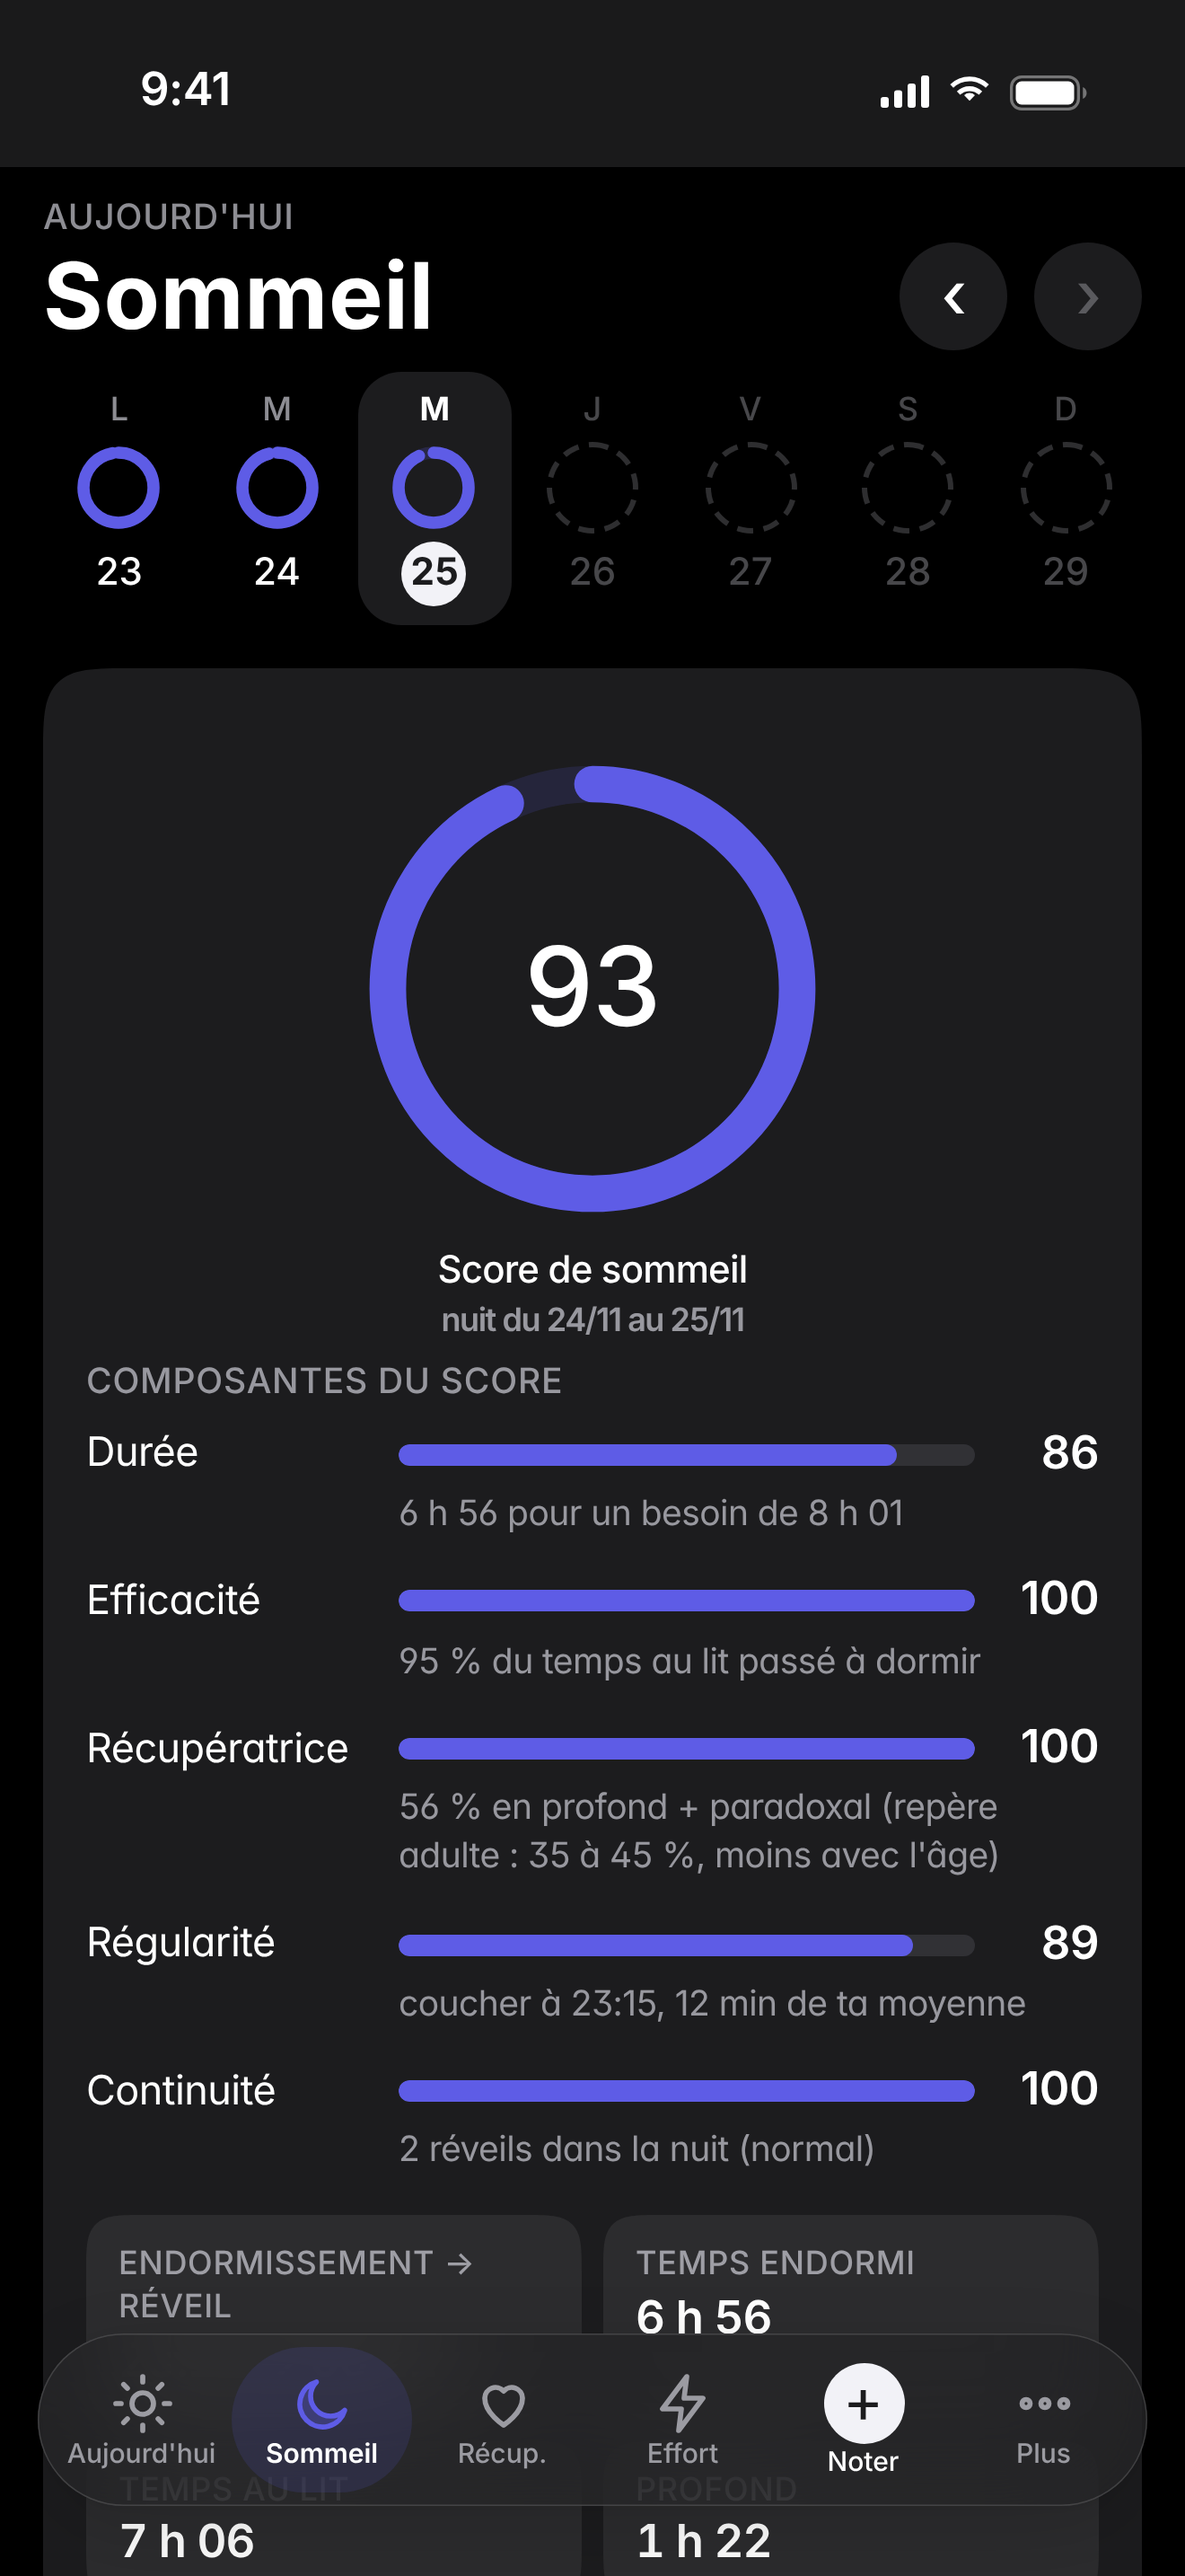
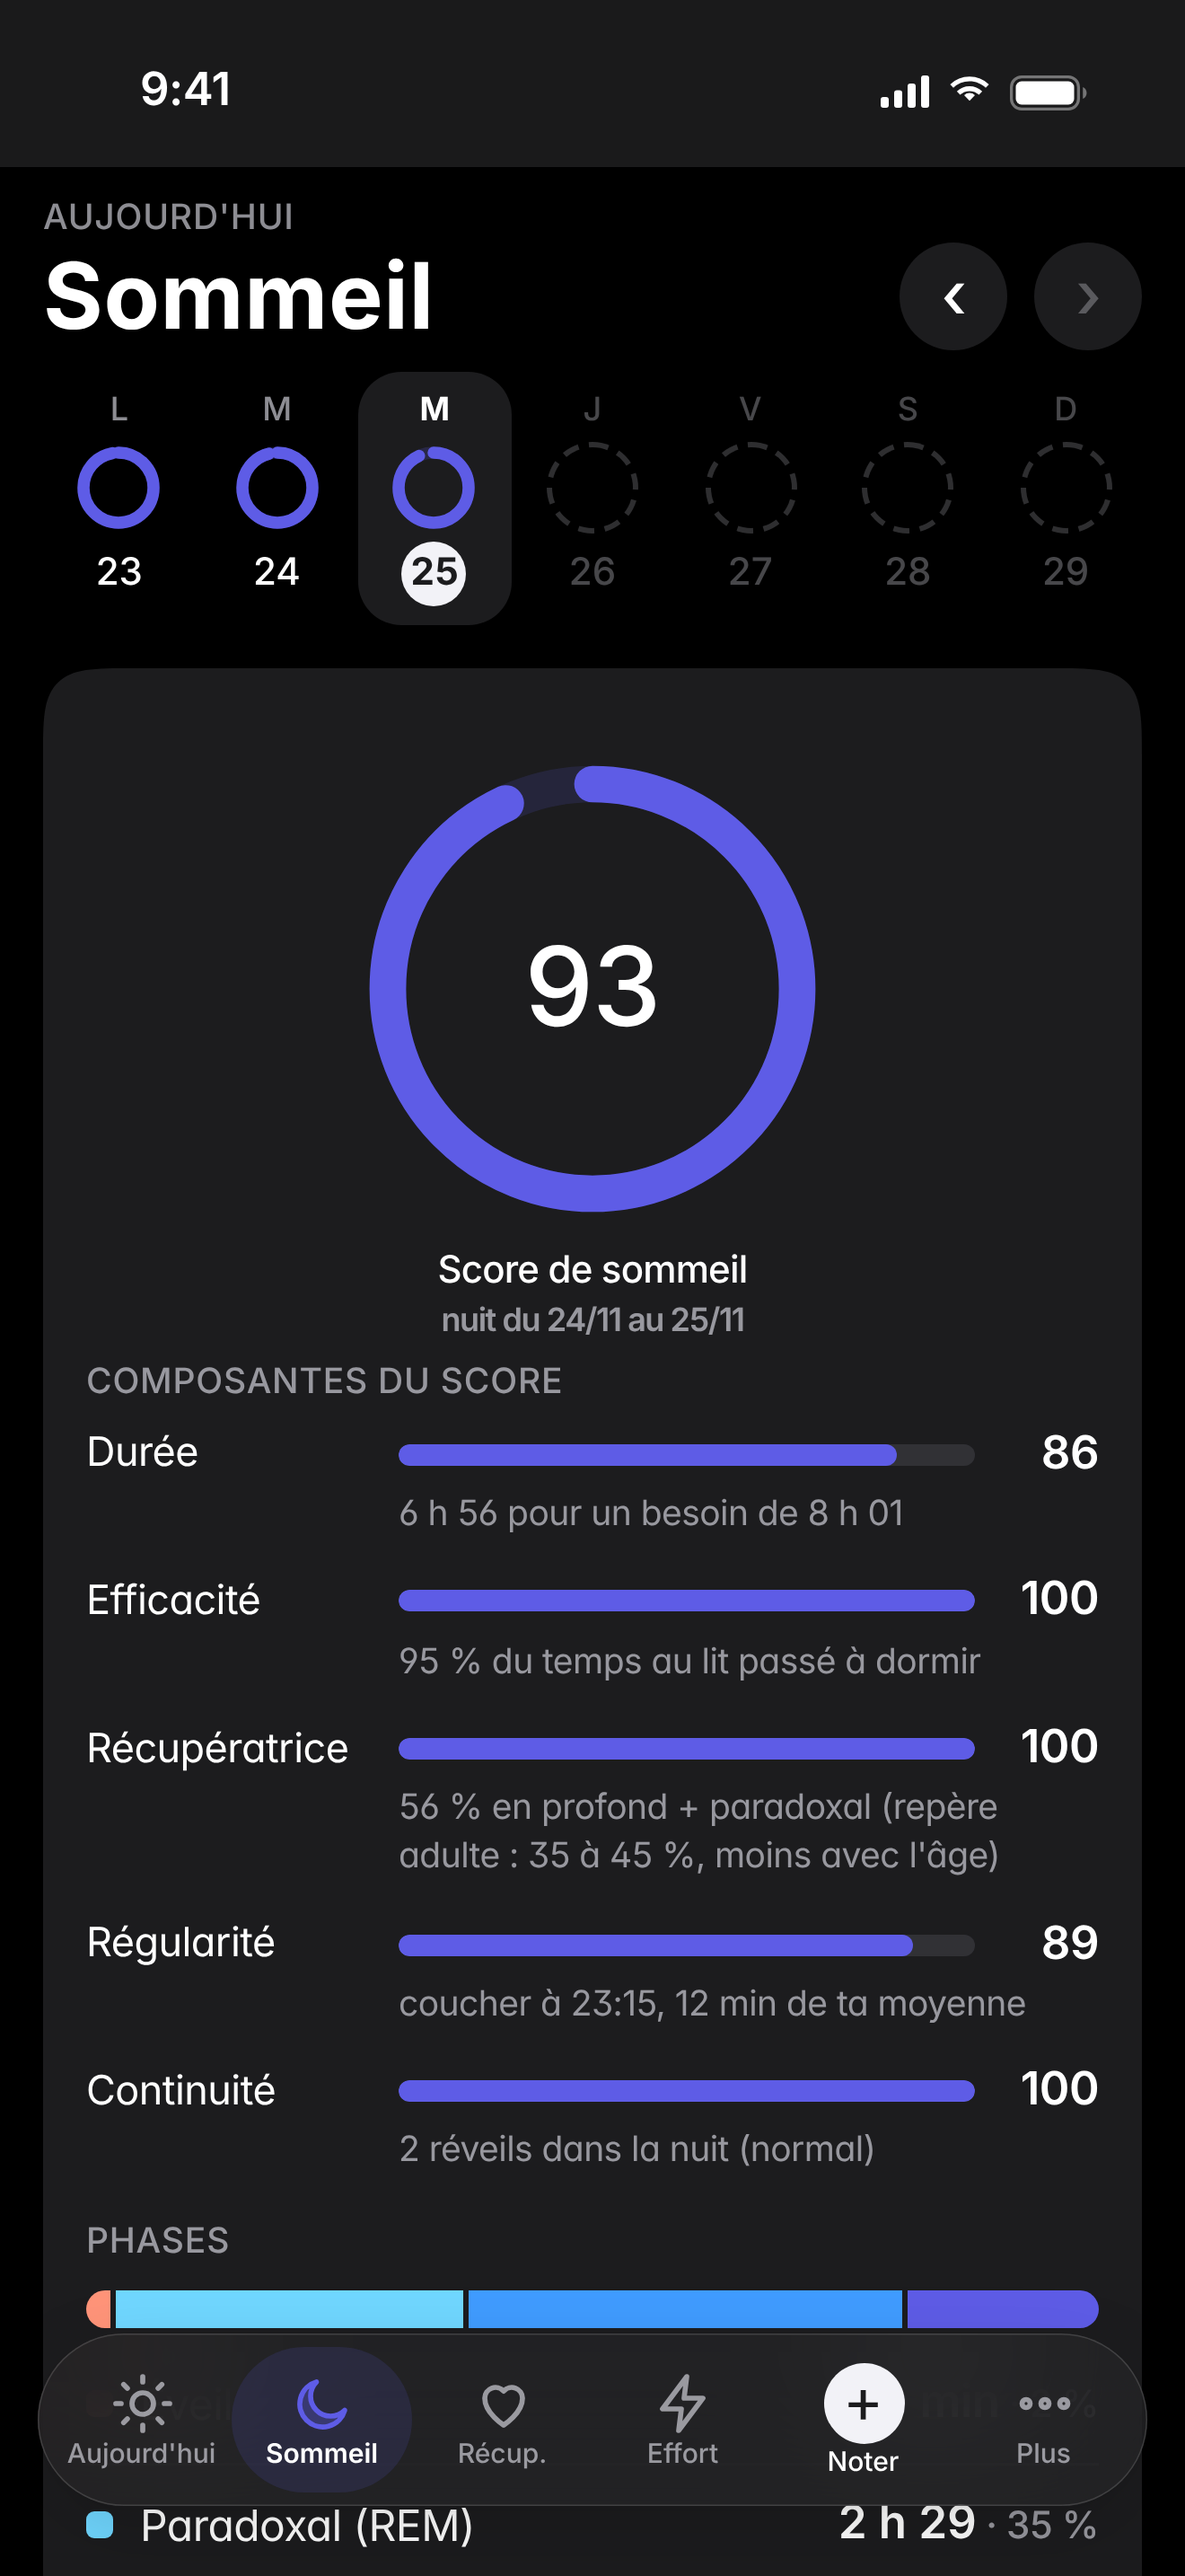
Sommeil en listes groupées façon Santé, Tendances sans données
- Sommeil : barre des phases (éveil, paradoxal, léger, profond) avec durée et pourcentage,
  puis listes « La nuit » et « Pendant le sommeil » au lieu de 14 cases de chiffres
- Tendances sans données Apple Santé : écran d'attente sous le grand titre, poids et
  mensurations seulement
- captures App Store régénérées

Claude-Session: https://claude.ai/code/session_015H5AcnZF4Qe2vCaE56TQbC

diff --git a/src/main.js b/src/main.js
@@ -245,6 +245,7 @@ const EMPTY={
  aujourdhui:['var(--eff)','<circle cx="12" cy="12" r="8.5"/><circle cx="12" cy="12" r="5"/><circle cx="12" cy="12" r="1.5"/>','Ajoute tes données Santé','Chaque matin, le carnet calcule ton effort, ta récupération et ton sommeil à partir des mesures de ton Apple Watch, puis te dit quoi en faire.'],
  sommeil:['var(--slp)','<path d="M20 14.5A8.5 8.5 0 1 1 9.5 4a7 7 0 0 0 10.5 10.5z"/>','Pas encore de nuits','Ton score de sommeil, tes phases et ton besoin de sommeil viennent des nuits enregistrées par ta montre.'],
  recuperation:['var(--rec)','<path d="M12 20s-7-4.4-7-10a4 4 0 0 1 7-2.6A4 4 0 0 1 19 10c0 5.6-7 10-7 10z"/>','Pas encore de récupération','La récupération compare chaque nuit ta VFC et ta FC au repos à ta propre normale. Il faut une semaine de nuits pour l\'établir.'],
+ tendances:['var(--trn)','<path d="M4 4v16h16M8 15l4-4 3 3 5-6"/>','Pas encore de tendances','Ton bilan santé, ta semaine et ce que révèlent tes données apparaissent après quelques semaines de mesures. Tu peux déjà noter ton poids et tes mensurations.'],
  effort:['var(--eff)','<path d="M13 2 4 14h7l-1 8 9-12h-7z"/>','Pas encore de fréquence cardiaque','L\'effort du jour, les zones cardiaques et la charge d\'entraînement viennent de ta FC. Tu peux déjà noter tes séances à la main.'],
 };
 function emptyHTML(v){const [c,ic,t,p]=EMPTY[v];
@@ -303,8 +304,13 @@ function renderSleep(){const d=S.day,h=H(d),sl=sleepScore(d),x=X(d),T=num(S.set.
  $('#gsl').innerHTML=gauge(sl&&sl.s,'var(--slp)','Score de sommeil',h.sl?`nuit du ${dShort(addD(d,-1))} au ${dShort(d)}`:'pas de nuit enregistrée',null,'',true);
  $('#slc').innerHTML=sl?compHTML(sl.c,'var(--slp)'):'<p class="mute small">Les composantes apparaissent avec une nuit importée.</p>';
  const win=has(h.sw)&&has(h.sb)?((h.sw-h.sb+1440)%1440):null;
- const stt=(v,l)=>v?`<div class="stat"><b>${v}</b><span>${l}</span></div>`:'';
- $('#sls').innerHTML=h.sl?[stt(has(h.sb)?`${hhmm(h.sb)} → ${hhmm(h.sw)}`:'','endormissement → réveil'),stt(fmtSl(h.sl),'temps endormi'),stt(win?fmtSl(win):'','temps au lit'),stt(h.sd?fmtSl(h.sd):'','profond'),stt(h.sr?fmtSl(h.sr):'','paradoxal (REM)'),stt(h.sc?fmtSl(h.sc):'','léger'),stt(has(h.wu)?String(h.wu):'','réveils'),stt(nhrv(d)?`${r0(nhrv(d))} <small>ms</small>`:'',`VFC retenue (${hvLab()})`),stt(h.nhr?`${r0(h.nhr)} <small>bpm</small>`:'','FC moyenne nocturne'),stt(h.nmin?`${h.nmin} <small>bpm</small>`:'','FC la plus basse'),stt(has(h.lat)?`${h.lat} <small>min</small>`:'','pour t\'endormir'),stt(has(h.dip)?`${h.dip} <small>%</small>`:'','baisse de FC la nuit'),stt(h.nrq&&useRm()?`${h.nrq} <small>%</small>`:'','battements valides (VFC)'),stt(h.rr?`${fx(h.rr)} <small>/min</small>`:'','respiration'),stt(h.o2?`${fx(h.o2)} <small>%</small>`:'','saturation O2')].join(''):'';
+ /* la nuit en listes groupées, comme dans Santé : phases, horaires, signes vitaux */
+ {const row=(l,v)=>v?`<div class="mrow"><span>${l}</span><b>${v}</b></div>`:'',grp=(t,rows)=>rows.join('')?`<div class="sgh">${t}</div><div class="sgrp">${rows.join('')}</div>`:'',U=(v,u)=>`${v}<small> ${u}</small>`;
+  const aw=win?Math.max(0,win-h.sl):0,und=Math.max(0,h.sl-num(h.sd)-num(h.sr)-num(h.sc)),tot=aw+h.sl;
+  const ph=[['Éveil','var(--awake)',aw],['Paradoxal (REM)','var(--rem)',num(h.sr)],['Léger','var(--core)',num(h.sc)],['Profond','var(--deep)',num(h.sd)],['Endormi, non détaillé','color-mix(in srgb,var(--slp) 30%,var(--field))',und>5?und:0]].filter(x=>x[2]>0);
+  $('#sls').innerHTML=h.sl?`${ph.length>1?`<div class="sgh">Phases</div><div class="phbar">${ph.map(([,c,m])=>`<i style="flex:${m};background:${c}"></i>`).join('')}</div><div class="sgrp">${ph.map(([l,c,m])=>`<div class="mrow"><span><i class="pdot" style="background:${c}"></i>${l}</span><b>${fmtSl(m)}<small> · ${r0(m/tot*100)} %</small></b></div>`).join('')}</div>`:''}`
+   +grp('La nuit',[row('Coucher → lever',has(h.sb)?`${hhmm(h.sb)} → ${hhmm(h.sw)}`:''),row('Temps endormi',fmtSl(h.sl)),row('Temps au lit',win?fmtSl(win):''),row('Pour t\'endormir',has(h.lat)?U(h.lat,'min'):''),row('Réveils',has(h.wu)?String(h.wu):'')])
+   +grp('Pendant le sommeil',[row('FC moyenne',h.nhr?U(r0(h.nhr),'bpm'):''),row('FC la plus basse',h.nmin?U(h.nmin,'bpm'):''),row('Baisse de FC',has(h.dip)?U(h.dip,'%'):''),row(`VFC (${hvLab()})`,nhrv(d)?U(r0(nhrv(d)),'ms'):''),row('Respiration',h.rr?U(fx(h.rr),'/min'):''),row('Saturation en oxygène',h.o2?U(fx(h.o2),'%'):''),row('Battements valides (VFC)',h.nrq&&useRm()?U(h.nrq,'%'):'')]):''}
  const cur2=hvm(),hvRows=[['SDNN Apple, moyenne du jour'+(cur2==='apple'?' · utilisée':''),h.hrv,`moyenne des ${h.hvn?h.hvn+' ':''}mesures du ${dShort(d)} (minuit à minuit) : la valeur journalière de l'app Santé`],['SDNN Apple pendant le sommeil'+(cur2==='sdnn'?' · utilisée':''),h.nhv,`moyenne des ${h.nhn?h.nhn+' ':''}mesures de la montre entre endormissement et réveil`],['RMSSD pendant le sommeil'+(cur2==='rmssd'?' · utilisée':''),h.nrm,'recalculé battement par battement : une autre mesure de la VFC, plus sensible à la récupération'],['SDNN recalculé (contrôle)',h.nsc,'doit être proche du SDNN Apple de la nuit si les battements sont bien lus']].filter(x=>x[1]);
  const xd=X(d)||{},hl=xd.hl||[],hsn=xd.hs||[],inSl=m=>{if(!has(h.sb)||!has(h.sw))return false;const r=m+720;return r>=Math.max(720,h.sb)&&r<=h.sw};
  const lastTxt=S.health.last?`Ton export s'arrête le ${dShort(S.health.last.slice(0,10))} à ${S.health.last.slice(11,16)}. `:'';
@@ -611,7 +617,7 @@ function resumeOnce(){if(resumed)return;resumed=true;const o=S.sessions.filter(s
 const views=['aujourdhui','sommeil','recuperation','effort','nutrition','tendances','plus'];
 const cur=()=>{const h=location.hash.slice(1);return views.includes(h)?h:'aujourdhui'};
 function markMore(){if(!matchMedia('(max-width:800px)').matches)return;requestAnimationFrame(()=>$$('.view:not([hidden]) :is(.panel>p.mute.small,.mkr p):not(.open)').forEach(p=>p.classList.toggle('more',p.scrollHeight>p.clientHeight+2)))}
-function renderView(v){const sec=$('#v-'+v);if(sec){sec.classList.toggle('nohd',!hKeys().length);sec.classList.toggle('nosess',!done().length)}setTimeout(markMore,0);setTimeout(syncNav,0);renderDayNav();$('#demobar').hidden=!S.set.demo;try{({aujourdhui:renderToday,sommeil:renderSleep,recuperation:renderRec,effort:renderEffort,nutrition:renderNutri,tendances:renderTrends,plus:renderPlus})[v]()}catch(e){console.error(e)}}
+function renderView(v){const sec=$('#v-'+v);if(sec){sec.classList.toggle('nohd',!hKeys().length);sec.classList.toggle('nosess',!done().length)}if(v==='tendances')$('#tnote').innerHTML=hKeys().length?'':emptyHTML('tendances');setTimeout(markMore,0);setTimeout(syncNav,0);renderDayNav();$('#demobar').hidden=!S.set.demo;try{({aujourdhui:renderToday,sommeil:renderSleep,recuperation:renderRec,effort:renderEffort,nutrition:renderNutri,tendances:renderTrends,plus:renderPlus})[v]()}catch(e){console.error(e)}}
 function renderSoft(){updateDatalist();
  if(!S.cur&&!$('#editor').contains(document.activeElement))renderStart();
  if(S.cur)S.cur.ex.forEach((e,i)=>updateHint(i));

diff --git a/index.html b/index.html
@@ -103,6 +103,7 @@
 
 <section id="v-tendances" class="view" hidden>
  <div class="vhead g12"><button type="button" class="btn small vback" data-go="plus">‹ Plus</button><h2 class="ltitle">Tendances</h2></div>
+ <div id="tnote" class="g12"></div>
  <div class="panel g12"><div class="ph"><h2>Bilan santé</h2><span class="mute small">30 derniers jours</span></div><div class="mkrs" id="mkrs"></div><p class="mute small">Repères issus des recommandations courantes (OMS pour l'activité, normes de VO2 max par âge et sexe, etc.), appliqués à tes données. Ce n'est pas un diagnostic : en cas de doute, parles-en à ton médecin.</p></div>
  <div class="panel g4"><h2>Rigueur du suivi</h2><div class="stats" id="rig"></div><p class="mute small">Sur les 14 derniers jours. Plus le suivi est complet, plus les scores et les analyses sont fiables.</p></div>
  <div class="panel g8"><div class="ph"><h2>Ta semaine</h2><span class="mute small" id="wkr"></span></div><div id="week" class="scroll"></div></div>

diff --git a/src/styles.css b/src/styles.css
@@ -722,3 +722,16 @@ label.btn.filebtn:not(.pri){color:var(--ink)}
 #recs:not(.all) tbody tr:nth-child(n+7){display:none}
 #recs .mall{margin-top:10px}
 .all .mall{display:none}
+
+/* ---------- sommeil : la nuit en listes groupées ---------- */
+#sls{display:block;margin-top:16px}
+.sgh{font-size:13px;font-weight:500;color:var(--mute);text-transform:uppercase;letter-spacing:.02em;margin:18px 0 4px}
+.sgh:first-child{margin-top:4px}
+.sgrp .mrow{font-size:16px;min-height:44px}
+.sgrp .mrow span{display:flex;align-items:center;gap:10px}
+.pdot{width:10px;height:10px;border-radius:3px;flex:none}
+.phbar{display:flex;gap:2px;height:14px;border-radius:7px;overflow:hidden;margin:8px 0 6px}
+.phbar i{display:block;min-width:3px}
+/* Tendances sans données : l'écran d'attente, le poids et les mensurations seulement */
+#v-tendances.nohd>:not(.vhead):not(#tnote):not(:has(#fw)):not(:has(#mf)){display:none!important}
+#tnote:empty{display:none}
